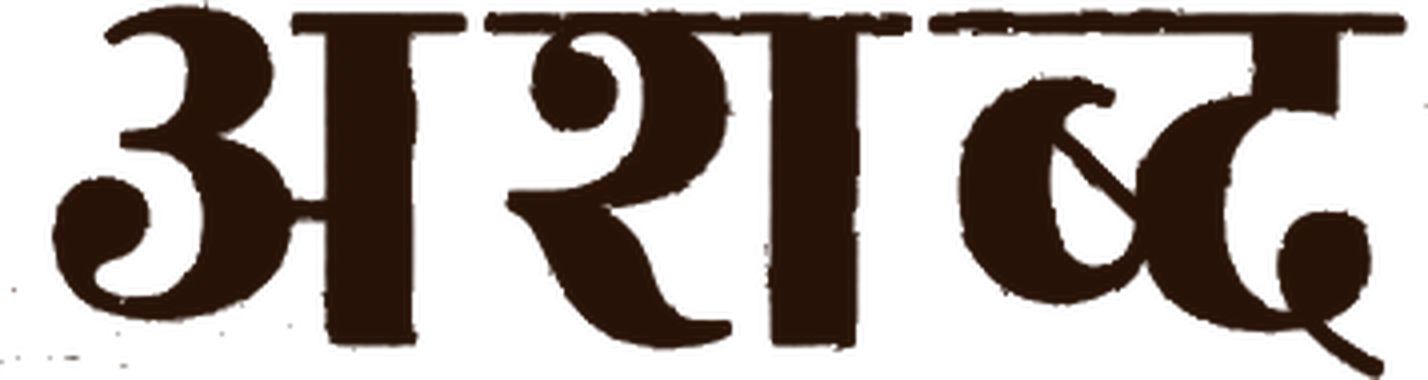
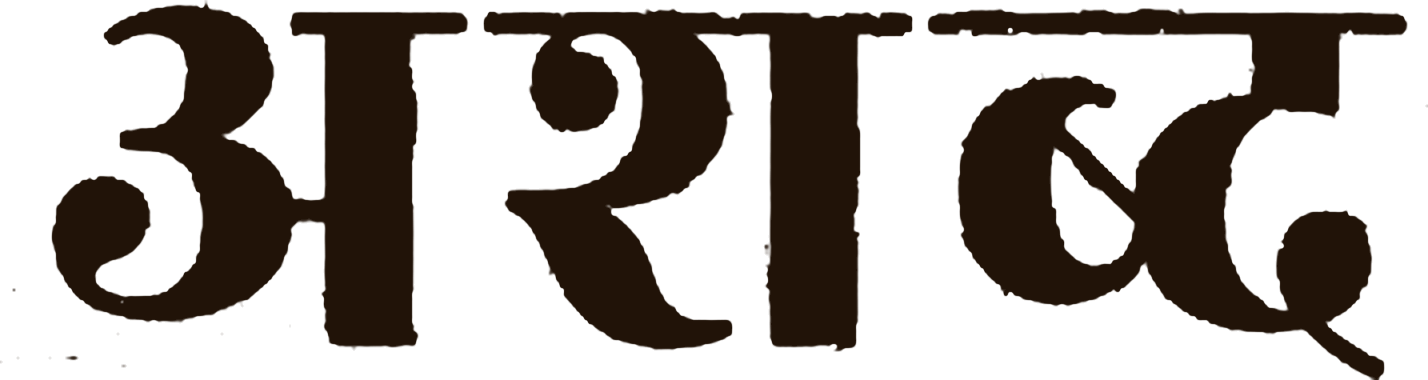
Fix central blurriness: restore crisp parchment texture, sharpen title, and remove SVG/CSS blur filters

diff --git a/public/style.css b/public/style.css
@@ -70,6 +70,8 @@ html, body {
   background-position: center center;
   background-size: cover;
   background-repeat: no-repeat;
+  image-rendering: -webkit-optimize-contrast;
+  image-rendering: high-quality;
   z-index: 0;
   pointer-events: none;
 }
@@ -186,8 +188,10 @@ html, body {
   display: block;
   margin: 0 auto;
   mix-blend-mode: multiply;
-  opacity: 0.95;
-  filter: drop-shadow(0 0 1px rgba(36, 22, 12, 0.45));
+  opacity: 1;
+  filter: none;
+  image-rendering: -webkit-optimize-contrast;
+  image-rendering: crisp-edges;
   pointer-events: none;
   user-select: none;
 }
@@ -206,7 +210,7 @@ html, body {
   cursor: pointer;
 
   color: #2b180d;
-  opacity: 0.92;
+  opacity: 0.94;
 
   /* Smooth organic hover transition */
   transition: opacity 0.35s ease;
@@ -227,9 +231,9 @@ html, body {
 /* Original dark-brown antique ink arrow */
 .arrow-base {
   fill: #2b180d;
-  opacity: 0.88;
+  opacity: 0.94;
   mix-blend-mode: multiply;
-  filter: url(#ink-bleed);
+  filter: none;
   transition: fill 0.35s ease;
 }
 
@@ -425,14 +429,6 @@ html, body {
   border-radius: 4px;
 }
 
-/* ---------------- Hidden SVG Filter Definition ---------------- */
-.svg-filters {
-  position: absolute;
-  width: 0;
-  height: 0;
-  overflow: hidden;
-  pointer-events: none;
-}
 
 /* ---------------- Responsive Fine-Tuning ---------------- */
 @media (max-width: 600px) {

diff --git a/src/index.js b/src/index.js
@@ -1760,6 +1760,8 @@ function renderPoemHtml(poem) {
       background-position: center center;
       background-size: cover;
       background-repeat: no-repeat;
+      image-rendering: -webkit-optimize-contrast;
+      image-rendering: high-quality;
       z-index: 0;
       pointer-events: none;
     }
@@ -2057,6 +2059,8 @@ function renderArchiveHtml(writings) {
       background-position: center center;
       background-size: cover;
       background-repeat: no-repeat;
+      image-rendering: -webkit-optimize-contrast;
+      image-rendering: high-quality;
       z-index: 0;
       pointer-events: none;
     }
@@ -2283,6 +2287,8 @@ function renderNotFoundHtml(customMessage = null) {
       background-position: center center;
       background-size: cover;
       background-repeat: no-repeat;
+      image-rendering: -webkit-optimize-contrast;
+      image-rendering: high-quality;
       z-index: 0;
       pointer-events: none;
     }

diff --git a/public/index.html b/public/index.html
@@ -148,20 +148,7 @@
     </footer>
   </main>
 
-  <!-- SVG Filter for Antique Ink Bleed on Fibrous Parchment -->
-  <svg class="svg-filters" aria-hidden="true" focusable="false">
-    <defs>
-      <filter id="ink-bleed" x="-10%" y="-10%" width="120%" height="120%">
-        <feTurbulence type="fractalNoise" baseFrequency="0.065" numOctaves="4" result="noise" />
-        <feDisplacementMap in="SourceGraphic" in2="noise" scale="2.0" xChannelSelector="R" yChannelSelector="G" result="displaced" />
-        <feGaussianBlur in="displaced" stdDeviation="0.35" result="blurred" />
-        <feMerge>
-          <feMergeNode in="blurred" />
-          <feMergeNode in="displaced" />
-        </feMerge>
-      </filter>
-    </defs>
-  </svg>
+
 
   <script src="app.js"></script>
   <script src="/analytics.js" defer></script>

diff --git a/public/app.js b/public/app.js
@@ -25,9 +25,9 @@
     dpr = Math.min(window.devicePixelRatio || 1, 2);
     width = window.innerWidth;
     height = window.innerHeight;
-    canvas.width = width * dpr;
-    canvas.height = height * dpr;
-    ctx.scale(dpr, dpr);
+    canvas.width = Math.round(width * dpr);
+    canvas.height = Math.round(height * dpr);
+    ctx.setTransform(dpr, 0, 0, dpr, 0, 0);
     renderParchment();
   }
 
